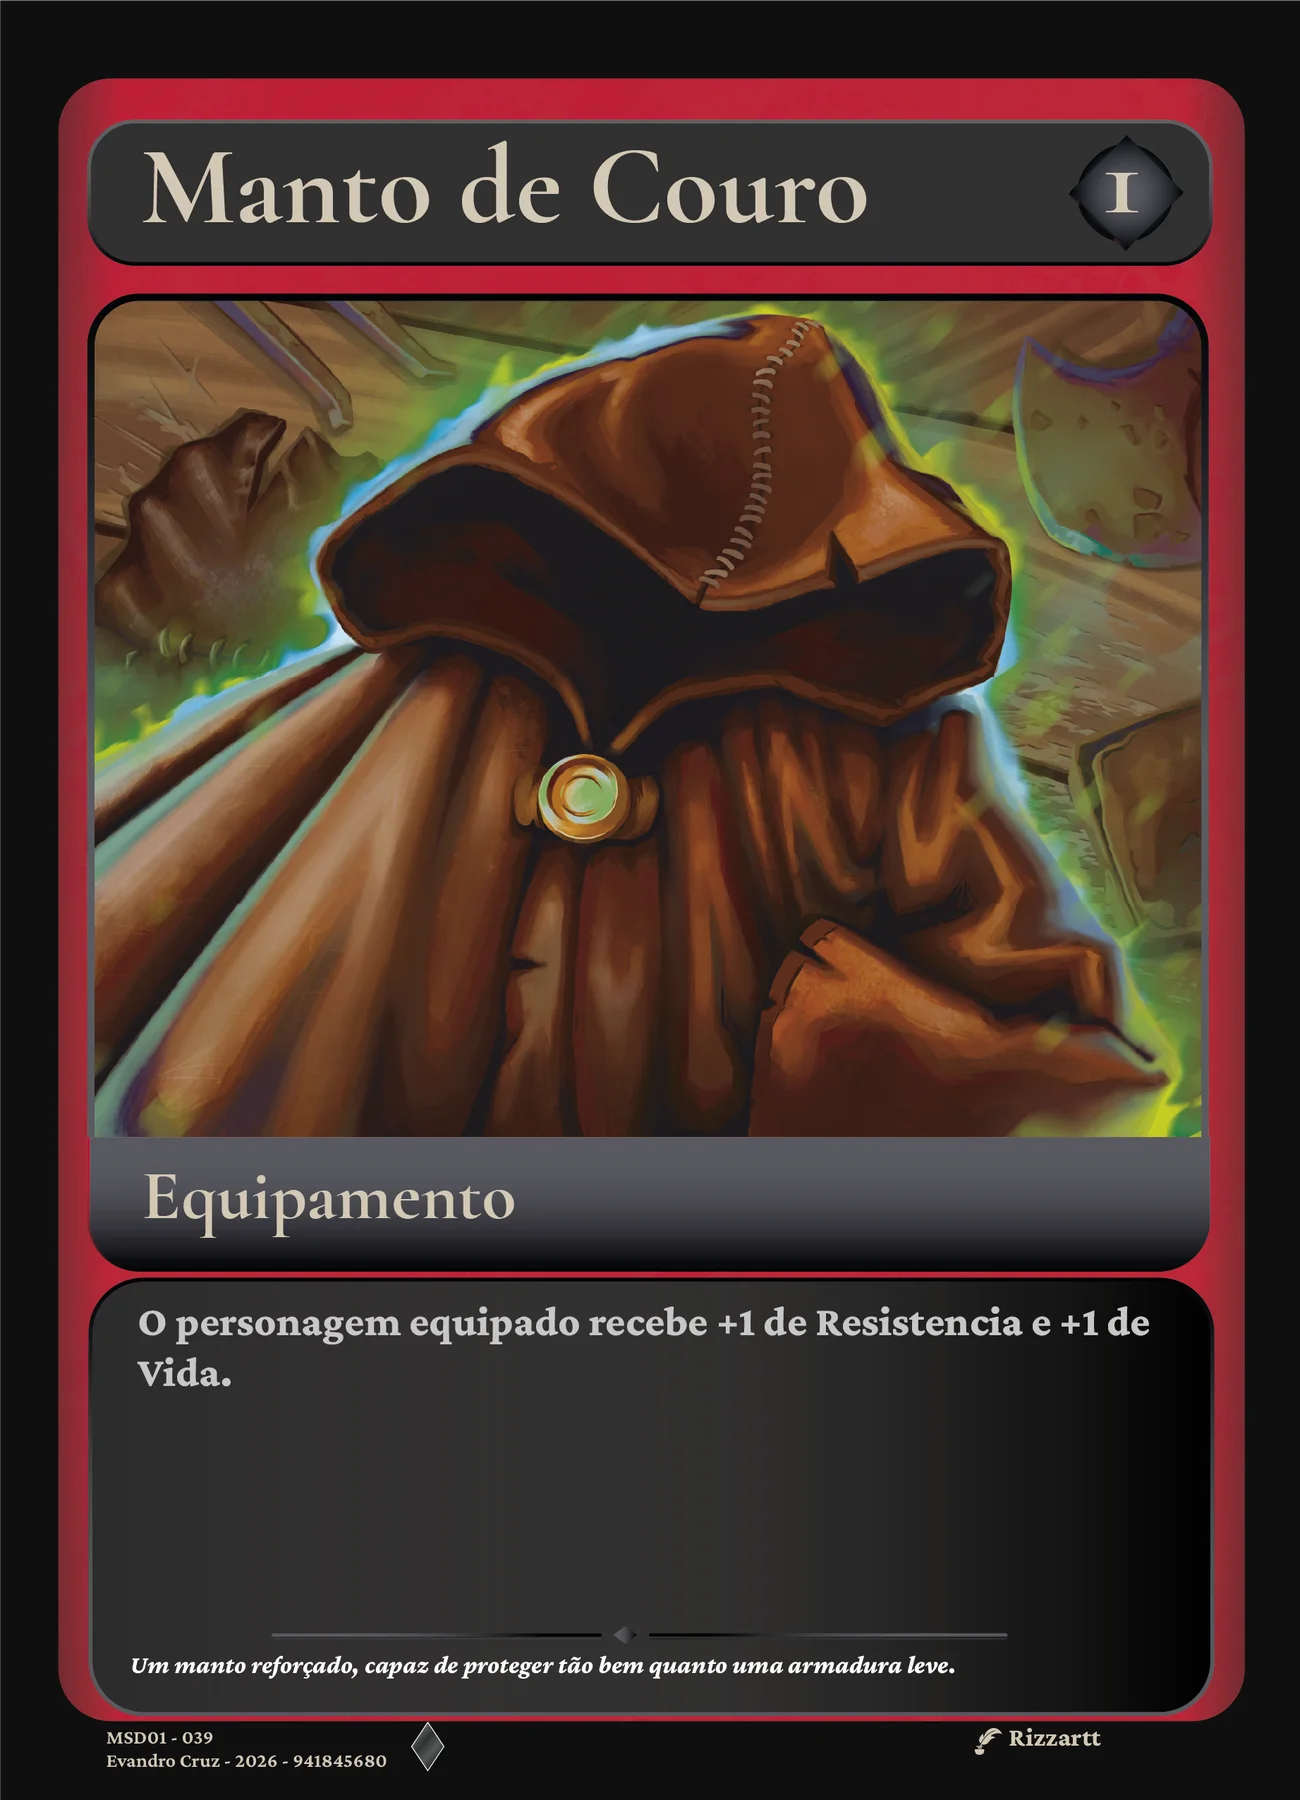
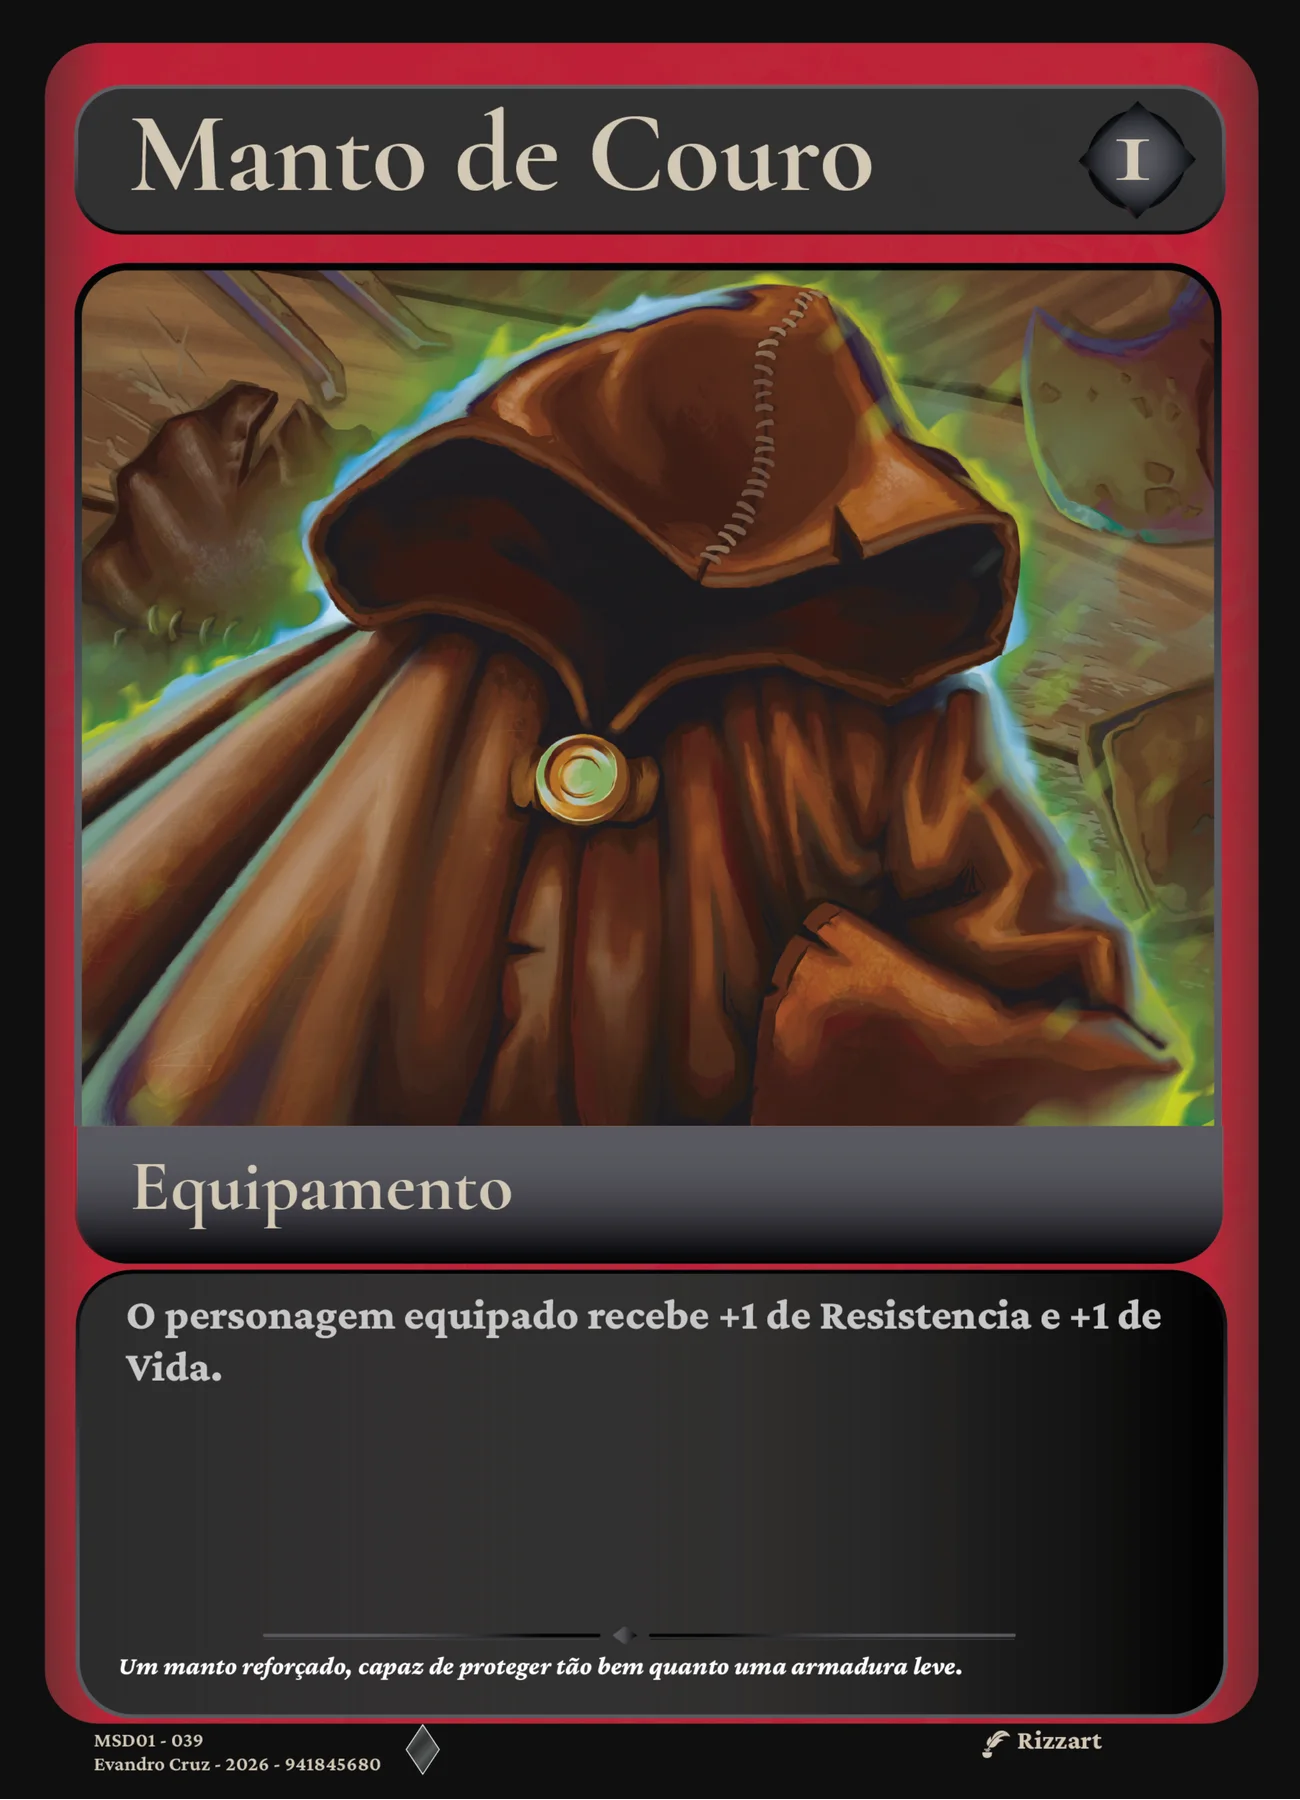
fix: correct Manto and Mascote artist credits and card images

diff --git a/data/cards.js b/data/cards.js
@@ -83,12 +83,17 @@ export const typeDescriptions = {
   Truque: 'Uma resposta que pode ser ativada da mão no turno de qualquer jogador, quando a condição da carta for atendida e o custo pago.',
   Equipamento: 'Uma carta de suporte acoplada a um personagem, concedendo os bônus ou habilidades descritos nela.'
 };
+const sourceOverrides = {
+  ursonegro: 'layout-ursonegro.ai.png',
+  mantocouro: 'layout-mantocouro.ai.png',
+  mascota: 'layout-aranhasmascote.ai.png'
+};
 export const cards = entries.map(([id, name, type, affiliation, cost, description = '', token = false]) => ({
   id, name, type, affiliation, cost, description, token,
   image: `/media/cartas/layout-${id}.webp`,
   thumbnail: `/media/cartas/thumbs/layout-${id}.webp`,
   reading: `/media/cartas/leitura/layout-${id}.webp`,
-  original: `/cartas.png/layout-${id}${id === 'ursonegro' ? '.ai' : ''}.png`
+  original: `/cartas.png/${sourceOverrides[id] || `layout-${id}.png`}`
 }));
 export const cardById = new Map(cards.map(card => [card.id, card]));
 export function normalize(value) { return String(value).normalize('NFD').replace(/[\u0300-\u036f]/g, '').toLowerCase().trim(); }

diff --git a/data/illustrations.js b/data/illustrations.js
@@ -20,8 +20,8 @@ const artists = {
   informantebeco: 'Marcella “Fufunha” Cappelletti', invasaocativeiro: 'Bruno Cavaretto',
   Jabutibarreira: 'Katarina Banffy', laminaserrilhada: 'Juliana Chislu',
   'leãoreibarreira': 'Flávio Winston', livroarcanoinstavel: 'Juliana Chislu',
-  magia_bemtreinado: 'Two Rey', magia_quebraaco: 'Diogo Roesberg', mantocouro: 'Rizzartt',
-  maosflamejantes: 'SXolote', mascota: 'rac_art_11', milicia: 'Marcella “Fufunha” Cappelletti',
+  magia_bemtreinado: 'Two Rey', magia_quebraaco: 'Diogo Roesberg', mantocouro: 'Rizzart',
+  maosflamejantes: 'SXolote', mascota: 'SXolote', milicia: 'Marcella “Fufunha” Cappelletti',
   milicianovila: 'Ruam Costa', novato: 'Gui Souza', observadora: 'Thiago Militão',
   orbeabsorcao: 'Rizzart', picapau: 'Katarina Banffy', porcoespinho: 'Ruam Costa',
   profanacaoterreno: 'Vitória Aparecida', protetor: 'Bruno Cavaretto', Queliceras: 'Rizzart',
